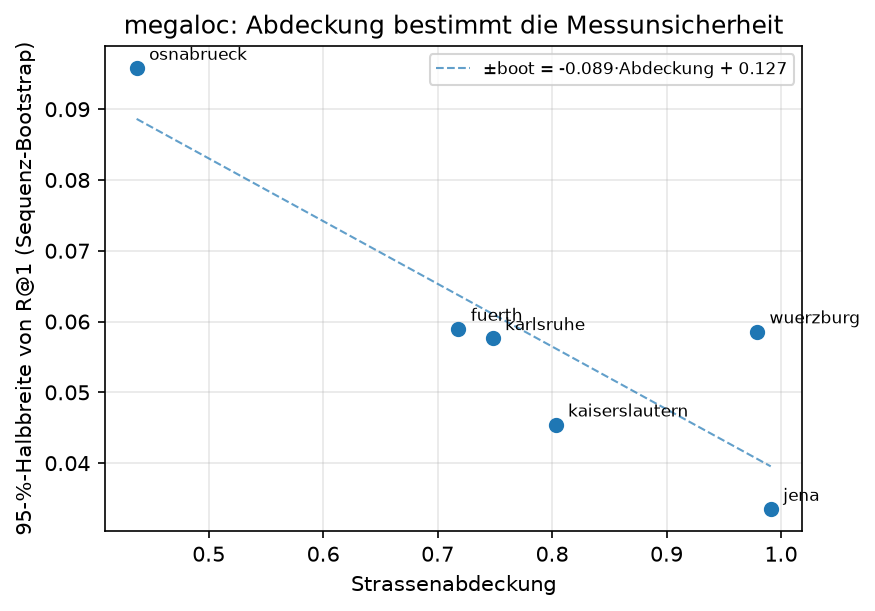
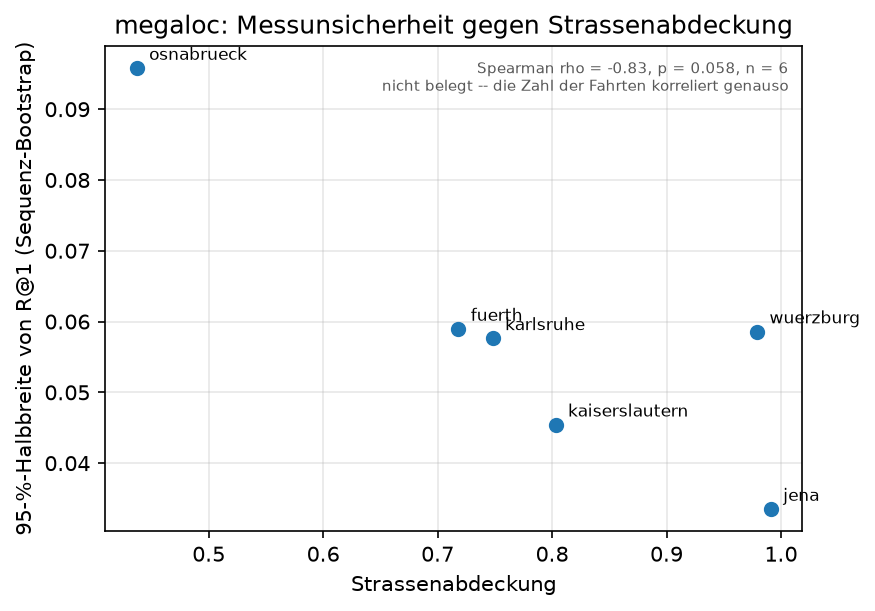
Städtevergleich & Bei n = 6 legt eine Gerade einen Zusammenhang nahe, den rho nicht trägt. Stattdessen rho, p und n in der Abbildung.

diff --git a/experiments/city_comparison.py b/experiments/city_comparison.py
@@ -429,7 +429,8 @@ def main():
     befunde = {}
     befunde["abdeckung_intervall"] = _zusammenhang(
         "Abdeckung gegen Intervallbreite", zeilen, "abdeckung", "halbbreite",
-        "Loechrige Abdeckung -> manche Fahrten laufen ins Leere -> grosse Streuung zwischen Fahrten.")
+        "Vermutung: loechrige Abdeckung -> manche Fahrten laufen ins Leere -> grosse Streuung "
+        "zwischen Fahrten. Nicht entscheidbar: die Zahl der Fahrten liefert dasselbe rho.")
     for z in zeilen:
         if z.get("hard") is not None:
             z["hard_abschlag"] = z["hard"] - z["alle"]
@@ -475,10 +476,10 @@ def main():
     print(f"\ngeschrieben: {OUT.relative_to(ROOT)}")
 
     if args.plot:
-        _abbildung(zeilen, args.method)
+        _abbildung(zeilen, args.method, befunde["abdeckung_intervall"])
 
 
-def _abbildung(zeilen, method):
+def _abbildung(zeilen, method, zusammenhang):
     import matplotlib
     matplotlib.use("Agg")
     import matplotlib.pyplot as plt
@@ -493,15 +494,15 @@ def _abbildung(zeilen, method):
     ax.scatter(x, y, s=40, zorder=3)
     for xi, yi, n in p:
         ax.annotate(n, (xi, yi), textcoords="offset points", xytext=(6, 4), fontsize=8)
-    if len(p) >= 3:
-        m, b = np.polyfit(x, y, 1)
-        xs = np.linspace(min(x), max(x), 50)
-        ax.plot(xs, m * xs + b, "--", linewidth=1, alpha=0.7,
-                label=f"±boot = {m:.3f}·Abdeckung + {b:.3f}")
-        ax.legend(fontsize=8)
+    # Keine Ausgleichsgerade: bei sechs Staedten und p ueber 0,05 behauptete sie
+    # einen Zusammenhang, den die Rangkorrelation nicht traegt (README, Sechs Staedte).
     ax.set_xlabel("Strassenabdeckung")
     ax.set_ylabel("95-%-Halbbreite von R@1 (Sequenz-Bootstrap)")
-    ax.set_title(f"{method}: Abdeckung bestimmt die Messunsicherheit")
+    ax.set_title(f"{method}: Messunsicherheit gegen Strassenabdeckung")
+    if zusammenhang and zusammenhang.get("p") is not None:
+        ax.text(0.98, 0.97, f"Spearman rho = {zusammenhang['rho']:+.2f}, p = {zusammenhang['p']:.3f}, "
+                f"n = {zusammenhang['n']}\nnicht belegt -- die Zahl der Fahrten korreliert genauso",
+                transform=ax.transAxes, fontsize=7, color="0.35", ha="right", va="top")
     ax.grid(alpha=0.3)
     ziel = OUT.with_suffix(".png")
     fig.savefig(ziel, bbox_inches="tight")
